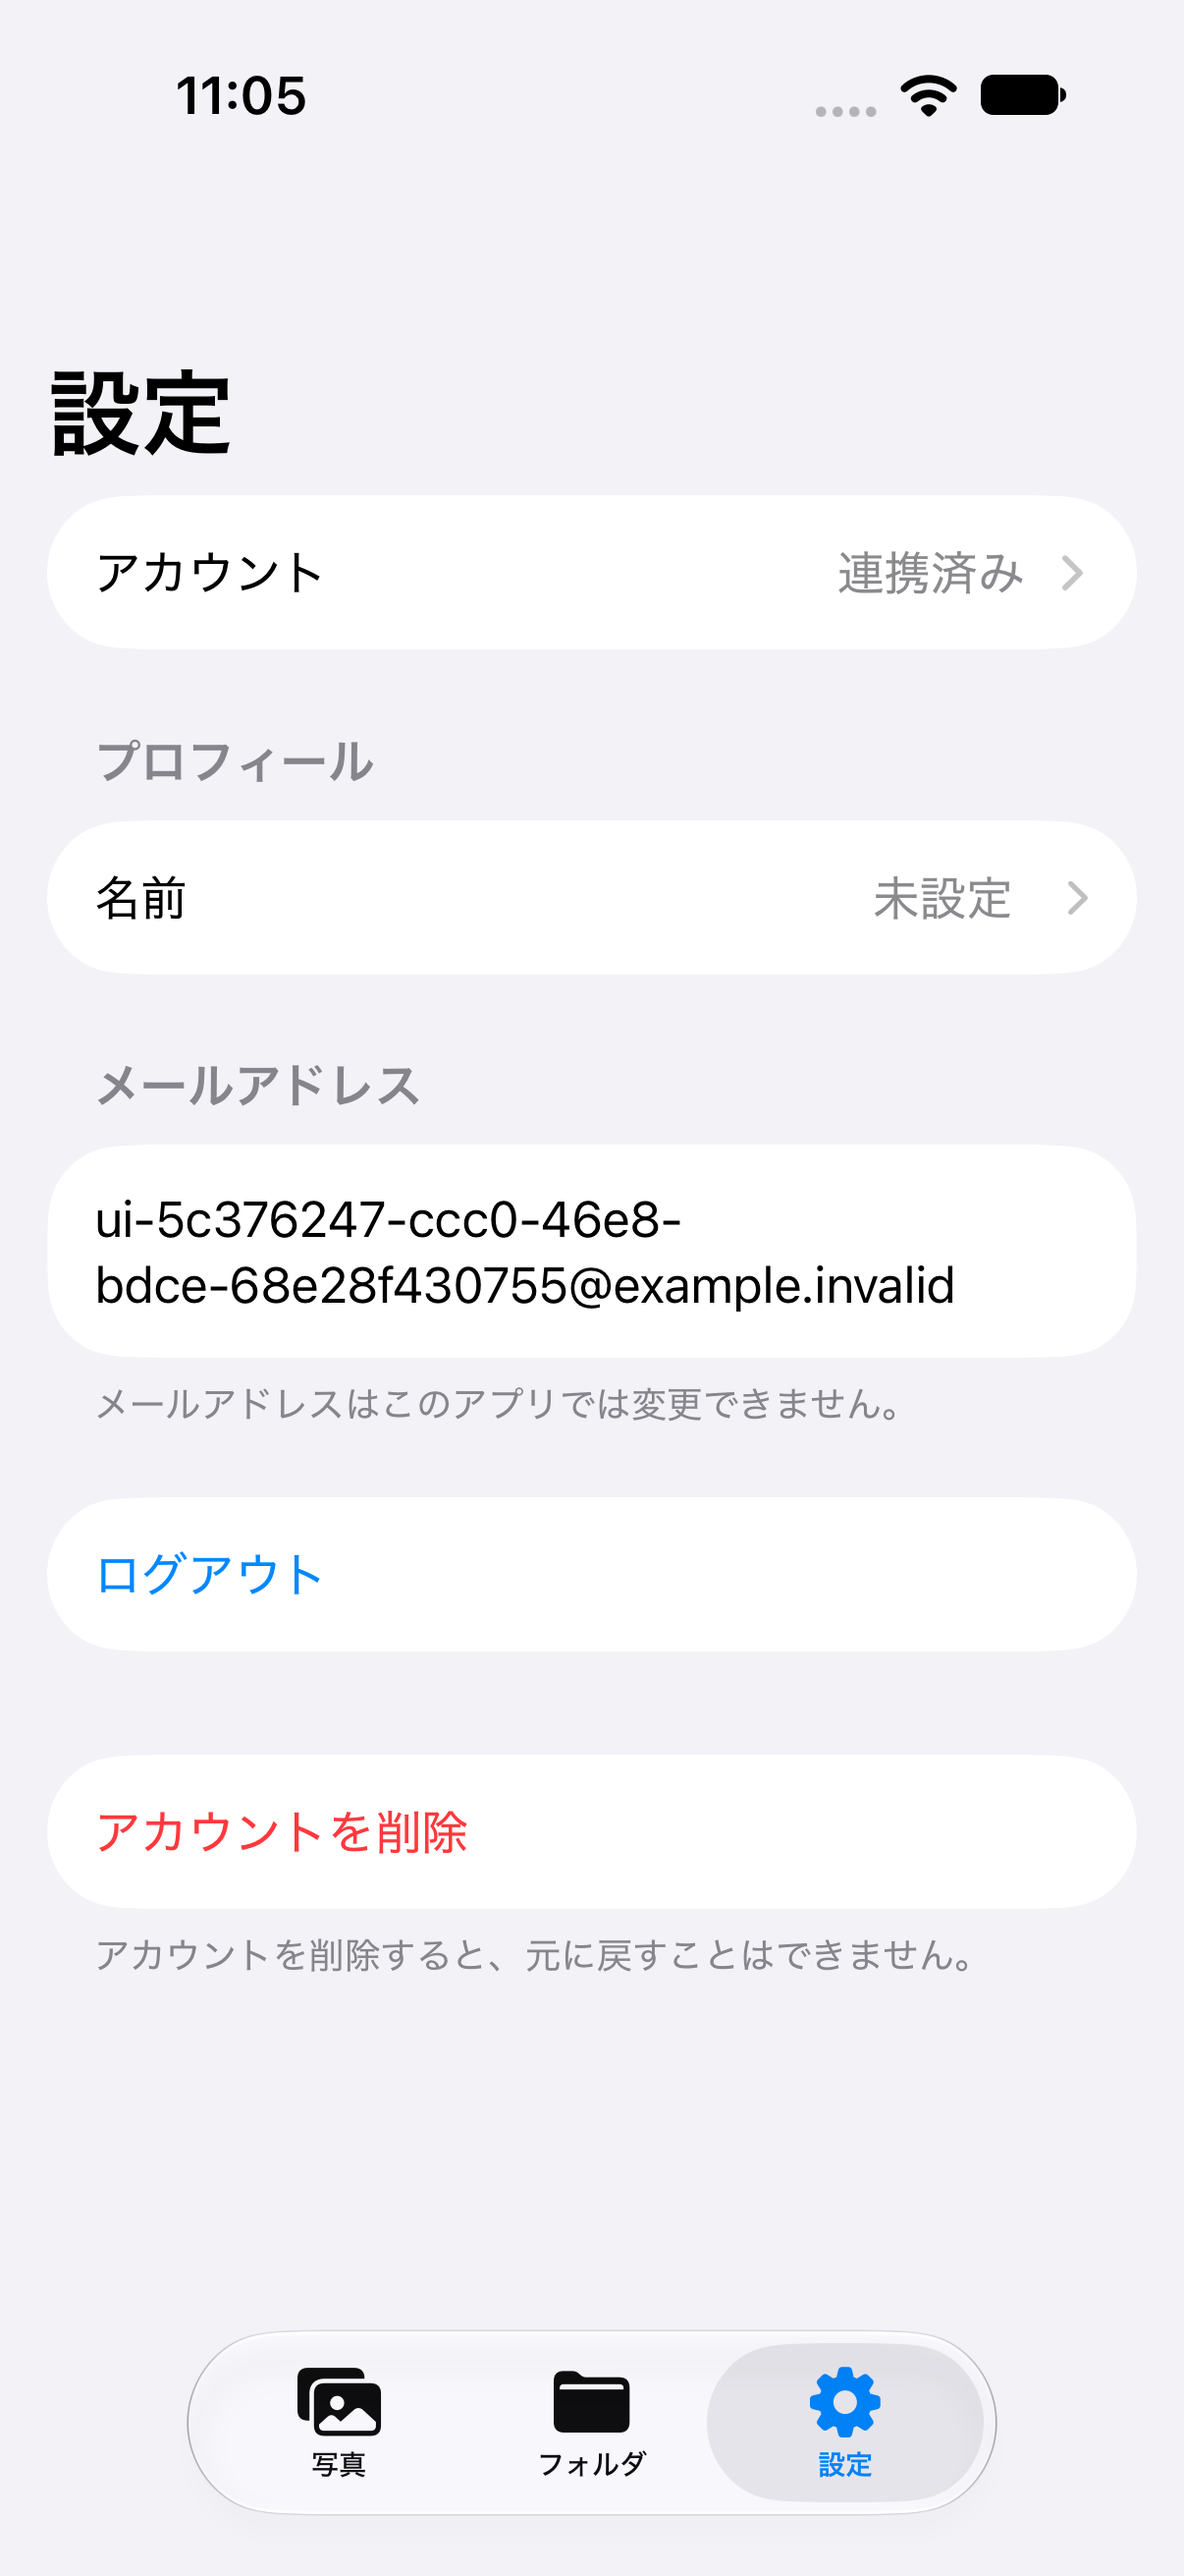
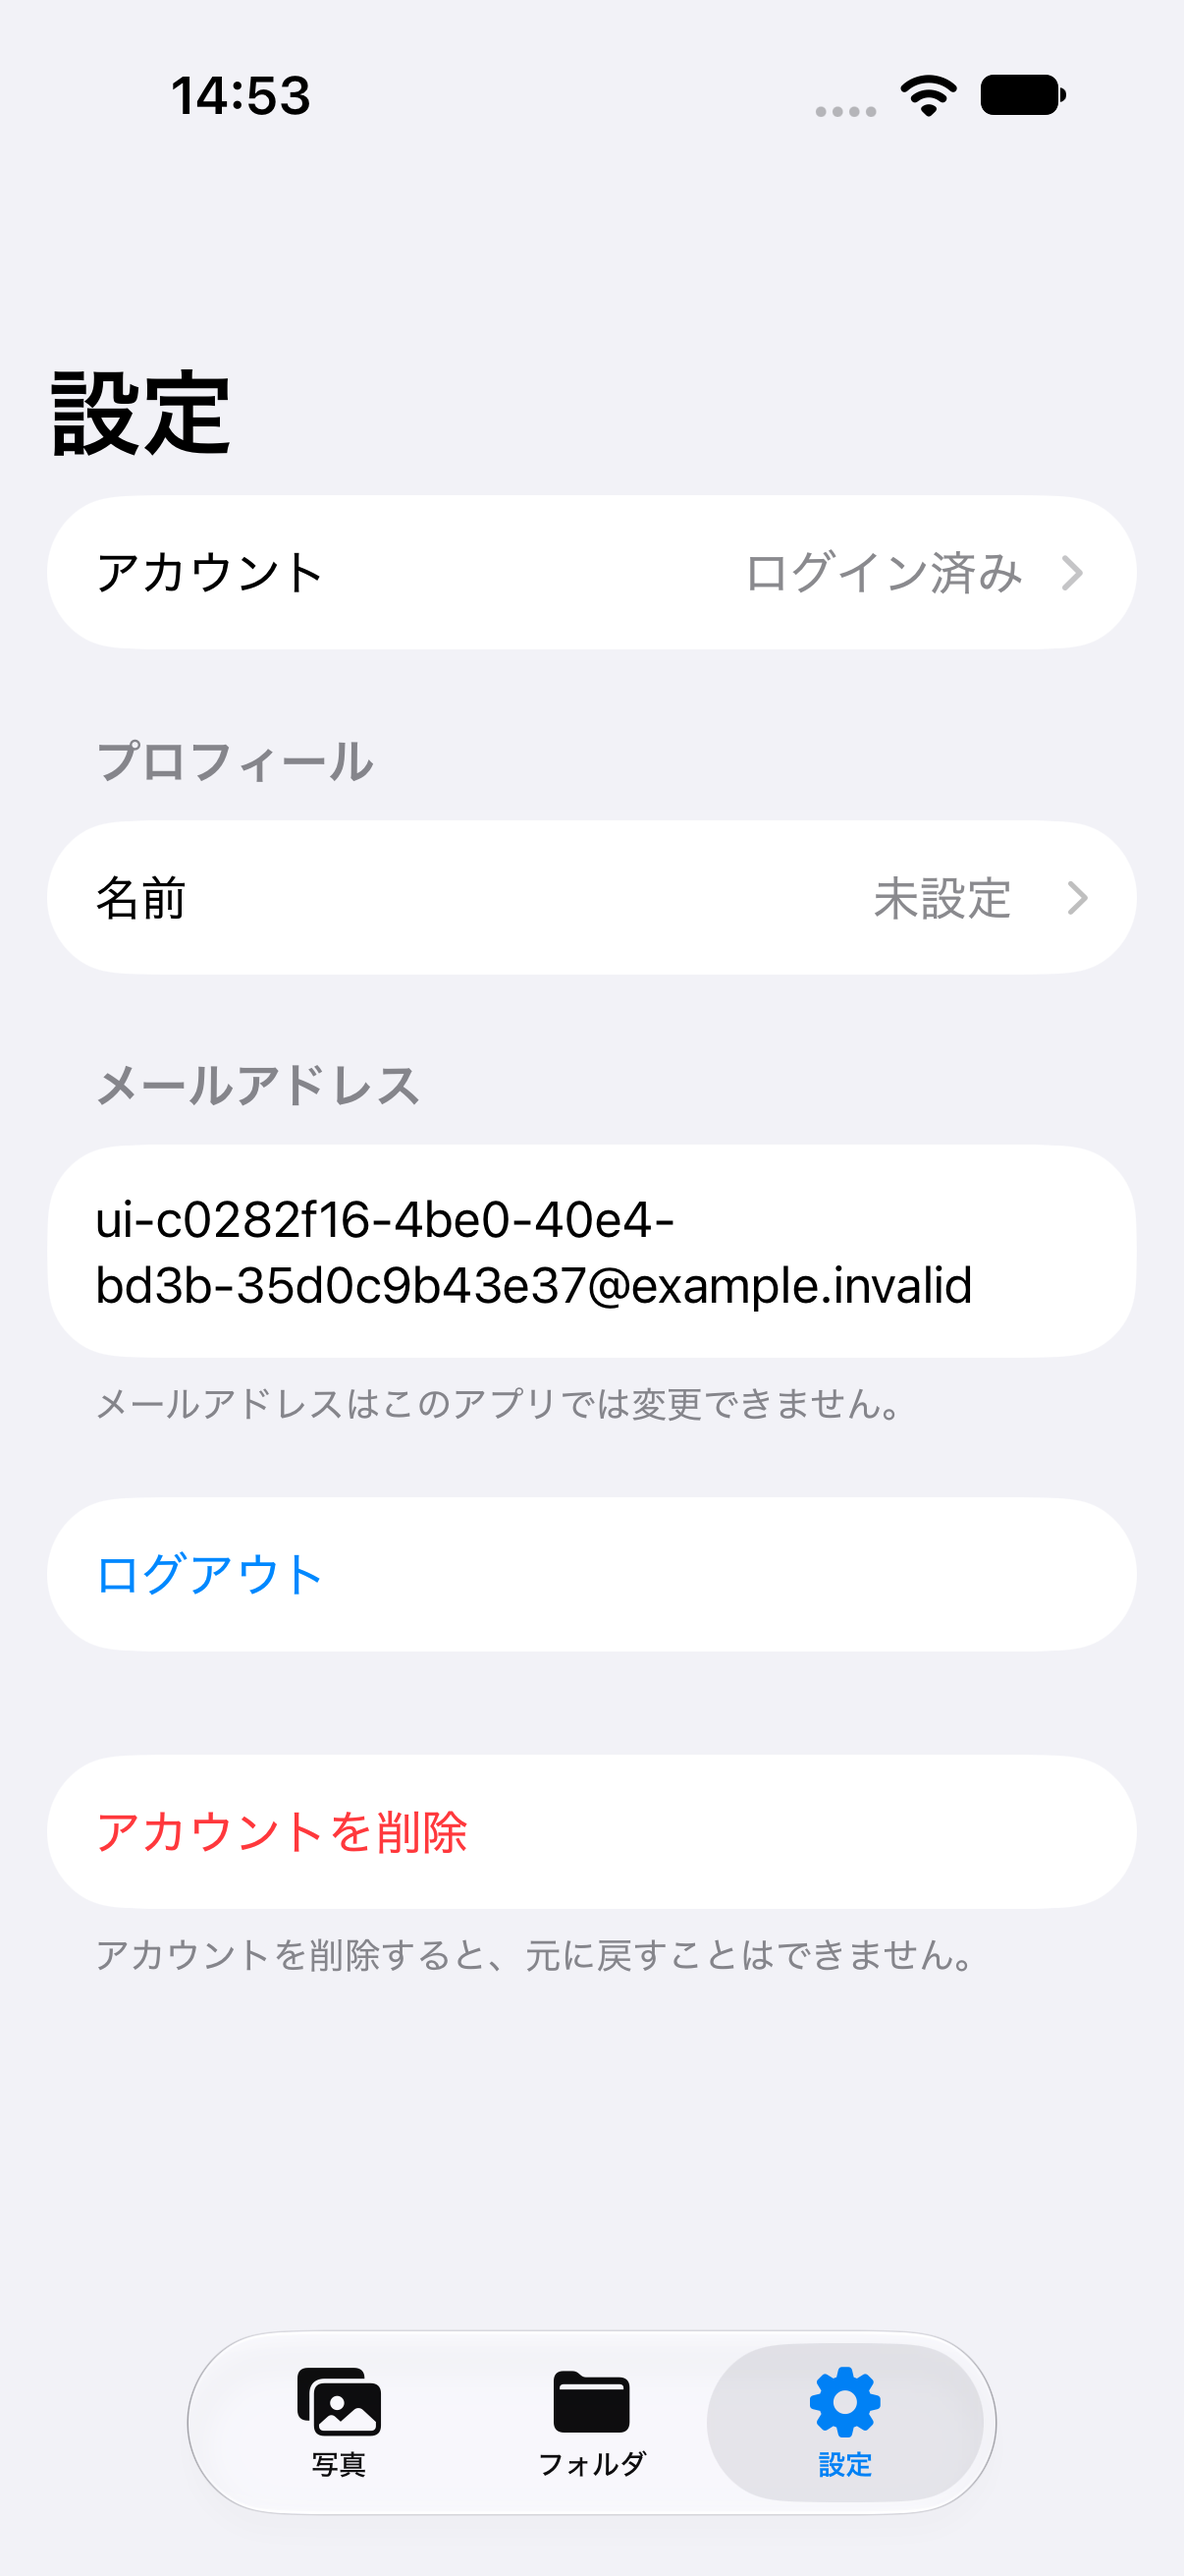
Use familiar login status labels in settings

Changed region(s): [[0.1227, 0.4634, 0.8284, 0.5252], [0.6443, 0.2162, 0.7977, 0.2471], [0.1534, 0.0309, 0.2761, 0.0618]]

diff --git a/sotsugyoUITests/sotsugyoUITests.swift b/sotsugyoUITests/sotsugyoUITests.swift
@@ -14,7 +14,7 @@ final class sotsugyoUITests: XCTestCase {
         capture("auth-01-anonymous-settings", app: app)
         app.buttons["auth.openAccount"].tap()
         XCTAssertTrue(app.descendants(matching: .any)["auth.accountStatus"].waitForExistence(timeout: 10))
-        XCTAssertTrue(app.descendants(matching: .any)["auth.accountStatus"].label.contains("登録せずに利用中"))
+        XCTAssertTrue(app.descendants(matching: .any)["auth.accountStatus"].label.contains("未ログイン"))
         XCTAssertFalse(app.buttons["ログアウト"].exists)
         capture("auth-11-anonymous-account", app: app)
 
@@ -26,7 +26,7 @@ final class sotsugyoUITests: XCTestCase {
         XCTAssertTrue(app.buttons["auth.linkGoogle"].waitForExistence(timeout: 5))
         capture("auth-03-google-link", app: app)
         app.navigationBars.buttons["アカウント"].tap()
-        XCTAssertTrue(app.descendants(matching: .any)["auth.accountStatus"].label.contains("登録せずに利用中"))
+        XCTAssertTrue(app.descendants(matching: .any)["auth.accountStatus"].label.contains("未ログイン"))
 
         app.buttons["auth.connect.password"].tap()
         XCTAssertTrue(app.textFields["auth.email"].waitForExistence(timeout: 5))
@@ -49,10 +49,10 @@ final class sotsugyoUITests: XCTestCase {
         XCTAssertTrue(app.buttons["auth.linkEmail"].isEnabled)
         app.buttons["auth.linkEmail"].tap()
         XCTAssertTrue(app.descendants(matching: .any)["auth.linked.password"].waitForExistence(timeout: 15))
-        XCTAssertFalse(app.descendants(matching: .any)["auth.accountStatus"].label.contains("登録せずに利用中"))
+        XCTAssertFalse(app.descendants(matching: .any)["auth.accountStatus"].label.contains("未ログイン"))
         capture("auth-12-linked-account", app: app)
         app.navigationBars.buttons["設定"].tap()
-        XCTAssertTrue(app.buttons["auth.openAccount"].label.contains("連携済み"))
+        XCTAssertTrue(app.buttons["auth.openAccount"].label.contains("ログイン済み"))
         capture("auth-05-linked-settings", app: app)
 
         app.terminate()
@@ -112,7 +112,7 @@ final class sotsugyoUITests: XCTestCase {
         app.buttons["auth.openExistingLogin"].tap()
         XCTAssertTrue(app.alerts["アカウントを切り替えますか？"].waitForExistence(timeout: 5))
         app.alerts.buttons["キャンセル"].tap()
-        XCTAssertTrue(app.descendants(matching: .any)["auth.accountStatus"].label.contains("登録せずに利用中"))
+        XCTAssertTrue(app.descendants(matching: .any)["auth.accountStatus"].label.contains("未ログイン"))
         app.buttons["auth.openExistingLogin"].tap()
         app.alerts.buttons["ログインへ進む"].tap()
         XCTAssertTrue(app.descendants(matching: .any)["auth.existingLogin"].waitForExistence(timeout: 10))
@@ -137,7 +137,7 @@ final class sotsugyoUITests: XCTestCase {
         XCTAssertFalse(app.buttons["auth.connect.apple.com"].exists)
         capture("auth-01-anonymous-settings", app: app)
         app.buttons["auth.openAccount"].tap()
-        XCTAssertTrue(app.descendants(matching: .any)["auth.accountStatus"].label.contains("登録せずに利用中"))
+        XCTAssertTrue(app.descendants(matching: .any)["auth.accountStatus"].label.contains("未ログイン"))
     }
 
     @MainActor

diff --git a/sotsugyo/View/AccountLinkView.swift b/sotsugyo/View/AccountLinkView.swift
@@ -10,7 +10,7 @@ struct AccountSettingsView: View {
     var body: some View {
         Form {
             Section {
-                LabeledContent("利用状況", value: viewModel.isAnonymous ? "登録せずに利用中" : "連携済み")
+                LabeledContent("利用状況", value: viewModel.isAnonymous ? "未ログイン" : "ログイン済み")
                     .accessibilityElement(children: .combine)
                     .accessibilityIdentifier("auth.accountStatus")
             }

diff --git a/sotsugyo/View/SettingView.swift b/sotsugyo/View/SettingView.swift
@@ -51,7 +51,7 @@ struct SettingView: View {
                         }
                     }
                 } label: {
-                    LabeledContent("アカウント", value: viewModel.isAnonymous ? "未連携" : "連携済み")
+                    LabeledContent("アカウント", value: viewModel.isAnonymous ? "未ログイン" : "ログイン済み")
                 }
                 .disabled(viewModel.isDeleting)
                 .accessibilityIdentifier("auth.openAccount")

diff --git a/docs/verification/anonymous-auth/README.md b/docs/verification/anonymous-auth/README.md
@@ -21,7 +21,7 @@
 - 導入済み FirebaseUI の `FirebaseAuthUI/Sources/Strings/ja.lproj/FirebaseAuthUI.strings` を確認。「プロフィール」「メールアドレス」「パスワード」「ログイン」など、既存認証画面の用語を使用しています。
 - [LINE公式ヘルプのアカウント連携手順](https://help.line.me/line/smartphone?contentId=20025070&lang=ja)では「設定 → アカウント → 連携する」という構成を確認しました。PicTuneでも入口は「アカウント」、Apple・Googleの操作は「連携する」、状態は「連携済み」としています。
 - メールは[同ヘルプのメールアドレス登録](https://help.line.me/line/?contentId=20000060&lang=ja)の表記も確認し、「メールアドレスを登録」「登録する」「登録済み」としています。
-- 「今の思い出を引き継ぐ」などの見出しを削除し、連携によって機種変更後もログインできることを短く説明します。匿名状態の表示は、開始画面の「登録せずに始める」に合わせて「登録せずに利用中」としました。
+- 「今の思い出を引き継ぐ」などの見出しを削除し、連携によって機種変更後もログインできることを短く説明します。利用状況と設定の入口は、匿名時に「未ログイン」、連携後に「ログイン済み」と表示します。内部では匿名認証を使い、写真などを保存できる状態を維持します。
 - 既存アカウントへの切り替え時は、現在のデータが引き継がれないことを確認します。名前編集、ログアウト、削除は従来どおり設定画面にあります。
 - 匿名時にメールアドレスがない場合は空のメール欄を表示しません。メール入力では項目名を常時表示し、キーボードの「次へ」でパスワード欄、「完了」で入力を終了できます。
 
@@ -38,7 +38,7 @@
 - 最新mainの写真保存修正を取り込んだ状態で、単体・統合テスト32件成功。初回匿名作成、既存ユーザーの復元、UID維持、写真・曲情報・手紙・編集した名前の保持、メール再ログイン、認証方法の衝突、無効なメール・弱いパスワード、Appleキャンセル、セッション切り替え後の古い連携画面の拒否を確認。
 - エミュレーター上で Apple / Google のテスト用認証情報を同じ UID に連携し、両方で同じアカウントへ再ログインできることを確認。実際の Apple / Google 認証サーバーへの接続確認ではありません。
 - シミュレーターで設定 → アカウント → 各連携画面の遷移と戻る操作、匿名からの既存ログイン画面表示、匿名アカウント削除と再開、既存の名前編集・ログアウト確認画面を確認。
-- 10月12日に画面遷移変更後のUIテスト4件が成功しました。メール入力 → 連携 → アプリ再起動によるセッション復元 → ログアウト → FirebaseUIでのメール再ログイン → 設定操作まで確認済みです。32件の単体・統合テストも同日に再実行して成功しています。メールの文言調整後も該当UIテストを再確認しています。
+- 10月12日に画面遷移変更後のUIテスト4件が成功しました。メール入力 → 連携 → アプリ再起動によるセッション復元 → ログアウト → FirebaseUIでのメール再ログイン → 設定操作まで確認済みです。32件の単体・統合テストも同日に再実行して成功しています。メールの文言とログイン状態の表示を調整した後も、メール登録・再ログインと既存ユーザー設定のUIテスト2件を再実行し、成功しています。
 - UIテスト中にiOSのパスワード保存確認を閉じる操作が一度失敗しました。保存確認の表示元である `SafariViewService` に操作を送るよう修正し、保存せずに閉じて再ログイン後の設定まで操作できることを再確認しました。
 - 本番 Firebase の一時アカウントで、REST API による匿名認証 → メール連携 → メール再ログインを確認。同じ UID と匿名時に保存した手紙へのアクセスが維持され、デプロイ済み Firestore ルールで読み書きできました。検証用文書2件とアカウントは削除済みです。
 
